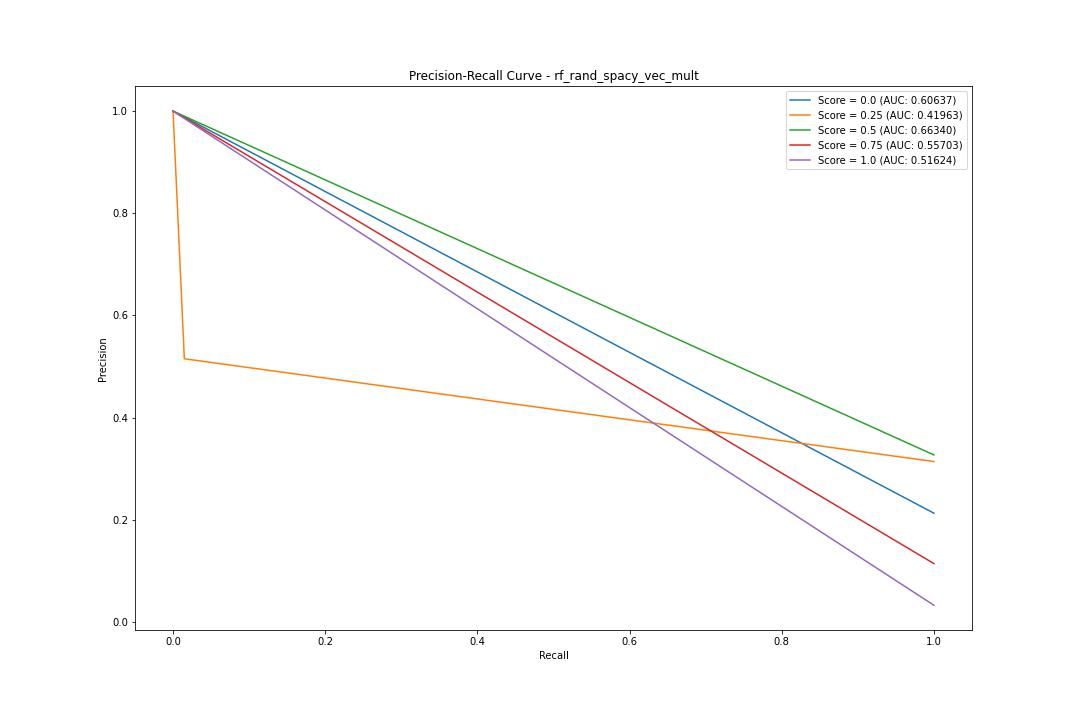
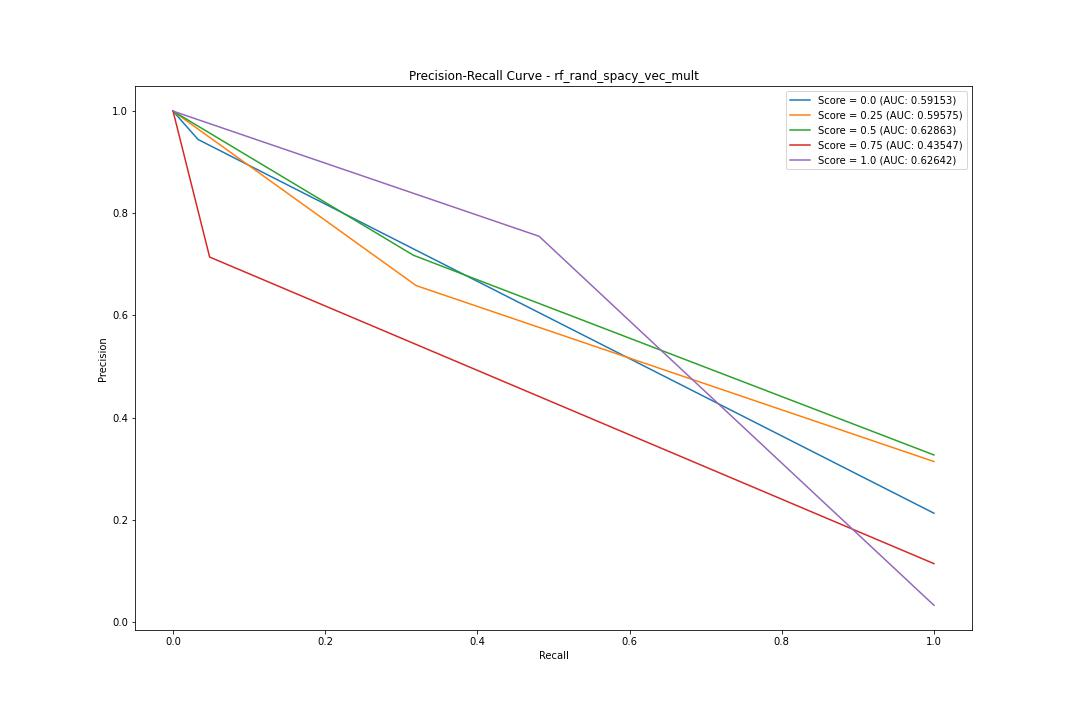
Update advanced models and README

diff --git a/README.md b/README.md
@@ -1,0 +1,80 @@
+## Semantic Similarity Predictions from Phrases in U.S. Patents
+
+### Project Description
+The goal of this project is to predict a semantic similarty score between an anchor phrase and a target phrase, both taken from the text of miscellaneous U.S. Patents. The dataset comes from [this Kaggle repository](https://www.kaggle.com/competitions/us-patent-phrase-to-phrase-matching) and comprises of ~35K anchor-target phrase pairs which have been labeled by domain-knowledge experts with a similarity score ranging from 0.0 (no relation between the phrases) to 1.0 (phrases are very similar). The scores provided are discrete, with the only possible values being [0.00, 0.25, 0.50, 0.75, 1.00]. Thus, this can both be a regression and/or classification problem depending on the use-case of the model.
+
+The primary learning objective of this project was to become familiar with both traditional and modern approaches to natural language processing and text feature engineering.
+
+
+### Technologies & Methods Used
+* scikit-learn for misc. ML utilities
+* pandas & numpy for data analysis
+* nltk for text preprocessing utilities
+* spaCy for pre-trained word vectors
+* gensim for training word2vec and FastText models from scratch
+* huggingface's transformer & datasets library for a pre-trained BERT model
+* Google Colab & TensorFlow for BERT model training
+
+
+### Project Directory
+./exploratory-data-analysis.ipynb
+* Preliminary exploration of the dataset.
+
+./linear_models.ipynb
+* Trained linear and logistic models on various text feature engineering approaches
+* Tested Levenshtein distance (edit distance), pre-trained word vectors, and custom-trained word vectors
+
+./train-patents-embeddings.ipynb
+* Trained a word2vec and FastText model on text from U.S. Patents filed between Jan. 2022 - Jul. 2022
+* Due to resource constraints, only 6mo. worth of patents could be processed even though ~50 years of data was available
+    * All training was done locally and gensim does not support GPU acceleration. 6mo took ~24 hrs of runtime!
+
+./advanced_models.ipynb
+* Tuned a Random Forest using a combination of RandomizedSearchCV and GridSearchCV
+* Fine-tuned a pre-trained BERT model using TensorFlow
+
+./contractions.py
+* File containing a dictionary of common contractions in english
+* Used in train-patents-embeddings.ipynb as part of the text preprocessing script
+
+./results/
+* ROC, PR curves for all models
+
+
+### Summary of Results
+* Both Regression and Classification approaches were taken as part of this project.
+
+* Key take-aways from exploratory data analysis:
+    * The phrases themselves are relatively short (2 +/- 1 words). Majority of phrase pairs do not have any words in common. 
+
+    * Target phrases have much more variety than anchor phrases (which act almost like 'categories'); ~9K unique words, with most target phrases being unique in the entire training dataset (~29K/36K are unique phrases)
+
+    * Phrase pairs with words in common tend to have, on average, a higher similarity score, though there exist contradictions to this generalization (e.g. phrase pairs with alot of words in common but low similarity score).
+
+    * Dataset spans many domains; 106 patent classification codes present
+
+    * Dataset is skewed toward phrase pairs that are unsimilar (e.g. low similarity scores). A OneVsRest scheme is also used. AUPR was the primary metric used for evaluation of model accuracy.
+
+* Multiple feature engineering methods were explored, such as:
+    * Levenshtein distance (e.g. edit distance) b/t anchor & target phrase as the feature
+
+    * Various permutations of pre-trained spaCy word vectors as the features (avg, multiply, cosine similarity, etc.)
+
+    * Various permutations of custom-trained word vectors as the features (Refer to: train-patents-embeddings.ipynb)    
+
+* All 1D feature engineering methods, such as cosine similarity and Levenshtein distance did not exhibit any trends. Some models had a negative R^2 value, which indicate the fit does not follow the trend. For advanced models (e.g. Random Forest), only multidimensional feature engineering methods were explored (e.g. spaCy word embeddings)
+
+* The best performing Regressor from this project was the Random Forest tuned via RandomizedSearchCV and GridSearchCV, with an RMSE of ~0.2, e.g. the model is off by 20% on average (score ranges from 0% to 100%).
+
+* The best performing Classifier from this project was also the Random Forest model. The pre-trained base BERT model (12 attention heads) underperformed the Random Forest for 4/5 labels with respects to AUPR. However, the BERT model was only trained for a few epochs. 
+
+
+### Areas for Improvement & Further Experimentation
+
+* One area of improvement is in the embeddings used for this project. Pre-trained word vectors & BERT models were used, however, these may not be suitable for problems relating to technical documentation (which contain a large amount of uncommon english words and domain-specific acronyms). The performance of the model may improve if resources were available to take advantage of the ~50 yrs of U.S. Patents text available online.
+
+* Hyperparameter tuning was performed using RandomizedSearchCV and GridSearchCV with limited parameter ranges due to the computational resources available. An improvement would be to use a more robust, less computationally intensive hyperparameter tuning methodology, such as Bayesian Optimization, to squeeze out a bit more performance.
+
+* A base BERT model was used in this project. As with most ML problems, scaling up will most likely improve accuracy. More attention heads!
+
+* Different lemmatizers and stemmers were not investigated. Optimizing the lemmatizer and/or stemmer could also have a big impact on model accuracy.
